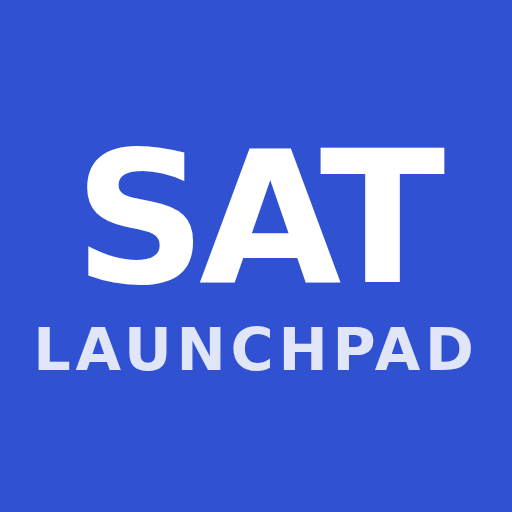
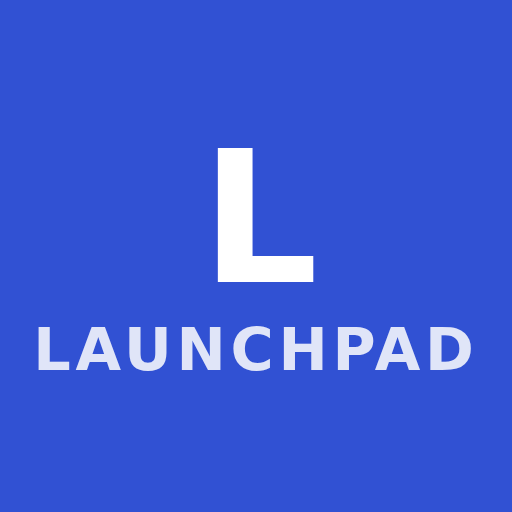
Rename the app to Launchpad
The repository is now "launchpad", so the app's name and links follow:
- Page title, home-screen name, header, manifest, icons and backup file
  names say "Launchpad"; the icon shows an L instead of "SAT".
- README links point to https://protoss1232001.github.io/launchpad/,
  with a note on moving a copy installed from the old address.
- The offline cache has a new name, so the copy at the old address
  keeps its own cache and still opens offline for a backup.

Lessons, the test roadmap and the official-score log still describe the
test they prepare for. Saved progress keeps its storage name, so it
loads unchanged at the new address.

Claude-Session: https://claude.ai/code/session_01Nbf3hJgb3N5FThU2Gpdbbn

Changed region(s): [[0.1562, 0.2812, 0.875, 0.5625]]

diff --git a/index.html b/index.html
@@ -3,14 +3,14 @@
 <head>
 <meta charset="utf-8">
 <meta name="viewport" content="width=device-width, initial-scale=1, viewport-fit=cover">
-<title>SAT Launchpad</title>
-<meta name="description" content="A multi-year study plan and practice app for the digital SAT.">
+<title>Launchpad</title>
+<meta name="description" content="A multi-year study plan and practice app.">
 <meta name="theme-color" content="#3151D3">
 <link rel="manifest" href="manifest.webmanifest">
 <link rel="icon" href="icon-192.png">
 <link rel="apple-touch-icon" href="icon-180.png">
 <meta name="apple-mobile-web-app-capable" content="yes">
-<meta name="apple-mobile-web-app-title" content="SAT Launchpad">
+<meta name="apple-mobile-web-app-title" content="Launchpad">
 <style>
 :root{--paper:#F3F5FA;--card:#FFFFFF;--ink:#18223A;--muted:#5B6479;--line:#D8DEEA;--accent:#3151D3;--accent-ink:#fff;--teal:#0F7F85;--good:#177A4C;--goodbg:#E2F4EA;--warn:#8A5E00;--warnbg:#FFF3D6;--bad:#C93C35;--badbg:#FBE4E2;--figfill:#E6ECF8;--grid:#DCE3EE;--bar1:#3D6BE0;--bar2:#E0901A;--hl:#FFE58A;--shadow:0 1px 2px rgba(24,34,58,.06),0 6px 18px rgba(24,34,58,.06)}
 @media (prefers-color-scheme:dark){:root:not([data-theme="light"]){--paper:#11172A;--card:#1A2236;--ink:#ECF0F7;--muted:#A3ACBF;--line:#2B3550;--accent:#7D95FF;--accent-ink:#0E1633;--teal:#3CC3C8;--good:#4CC98A;--goodbg:#173626;--warn:#E0AE49;--warnbg:#3A2E10;--bad:#FF7A70;--badbg:#3D1E1C;--figfill:#243050;--grid:#2C3753;--bar1:#7D9BFF;--bar2:#F3B24A;--hl:#6B5A12;--shadow:0 1px 2px rgba(0,0,0,.3),0 6px 18px rgba(0,0,0,.25)}}
@@ -194,7 +194,7 @@ body.testing{background:var(--card)}
 </head>
 <body>
 <div id="app"></div>
-<noscript><p style="padding:20px;font-family:sans-serif">SAT Launchpad needs JavaScript turned on. Open it in Chrome, Safari, Edge, or Firefox.</p></noscript>
+<noscript><p style="padding:20px;font-family:sans-serif">Launchpad needs JavaScript turned on. Open it in Chrome, Safari, Edge, or Firefox.</p></noscript>
 <script>
 // ===== CORE HELPERS =====
 const R=(a,b)=>a+Math.floor(Math.random()*(b-a+1));
@@ -1932,7 +1932,7 @@ const GRADES=[8,9,10,11,12];
 const gradeName=g=>`${g}th grade`;
 // If a screen fails to draw, a recovery screen replaces it instead of a blank page.
 function render(){try{draw()}catch(e){stopClock();try{console.error(e)}catch(_){}$('#app').innerHTML=recoveryView();wireRecovery()}}
-function saveNotice(){if(SAVE_OFF==='stale')return `<div class="card note blocking"><b>SAT Launchpad saved newer progress in another tab or window.</b> This copy has stopped saving so it does not overwrite that progress. <div class="actions"><button class="btn primary" id="rl_reload">Reload with the newer progress</button></div></div>`;
+function saveNotice(){if(SAVE_OFF==='stale')return `<div class="card note blocking"><b>Launchpad saved newer progress in another tab or window.</b> This copy has stopped saving so it does not overwrite that progress. <div class="actions"><button class="btn primary" id="rl_reload">Reload with the newer progress</button></div></div>`;
  if(SAVE_OFF==='blocked')return `<div class="card note"><b>Progress cannot be saved.</b> This browser is blocking storage for this site (a private window, or website data turned off). Open the app in a normal window, or allow website data.</div>`;
  if(SAVE_OFF==='rescue')return `<div class="card note"><b>Saved progress could not be read, and there was no room to set it aside.</b> Nothing will be saved until this is sorted out, so the old data is not overwritten. <button class="linkbtn" id="rl_raw">Download the saved data</button> and send it to whoever set up this app.</div>`;
  if(SAVE_FAIL)return `<div class="card note" id="savewarn"><b>Progress is not being saved.</b> The browser refused to store it (storage may be full). Download a backup file from Progress → Settings now.</div>`;return ''}
@@ -1941,12 +1941,12 @@ function recoveryView(){return `<div class="wrap narrow"><div class="card"><h2>S
  <h4>Your data</h4><div class="actions"><button class="btn" id="rv_dl">Download my data</button><label class="btn filebtn">Restore from file<input type="file" id="rv_file" accept=".json,application/json" hidden></label><button class="btn danger" id="rv_erase">Erase all progress</button></div></div></div>`}
 function wireRecovery(){const on=(id,f)=>{const e=$(id);if(e)e.onclick=f};
  on('#rv_home',()=>{S.view='home';S.cur=null;if(S.tst)S.tst.active=false;save();render()});on('#rv_leave',()=>{S.cur=null;save();render()});on('#rv_test',()=>{S.tst=null;save();render()});
- on('#rv_dl',()=>{let raw='';try{raw=localStorage.getItem(KEY)||''}catch(e){}download(`sat-launchpad-data-${today()}.json`,raw||JSON.stringify(S))});
+ on('#rv_dl',()=>{let raw='';try{raw=localStorage.getItem(KEY)||''}catch(e){}download(`launchpad-data-${today()}.json`,raw||JSON.stringify(S))});
  const f=$('#rv_file');if(f)f.onchange=e=>{const x=e.target.files[0];if(!x)return;const r=new FileReader();r.onload=()=>restore(String(r.result));r.readAsText(x)};
  on('#rv_erase',eraseAll)}
 function draw(){applyTheme();const app=$('#app');const ae=document.activeElement;let sel=null;if(ae&&ae!==document.body&&app.contains(ae)){if(ae.id)sel='#'+CSS.escape(ae.id);else for(const k of ['tpick','pick','go','elim','nt','why','revall','view','daily'])if(ae.dataset&&ae.dataset[k]!=null){sel=`[data-${k}="${CSS.escape(ae.dataset[k])}"]`;break}}
  const refocus=()=>{if(!sel)return;const el=app.querySelector(sel);if(el&&!el.disabled&&document.activeElement===document.body)el.focus({preventScroll:true})};const p=$('#calc');const inMath=S.tst&&S.tst.active&&S.tst.phase==='module'&&S.tst.mods[S.tst.mi].sec==='math';if(p&&!p.hidden&&!inMath)toggleCalc(false);
- if(SAVE_OFF==='newer'){app.innerHTML=`<div class="wrap narrow"><div class="card"><h2>Please update the app</h2><p>This device's progress was saved by a newer version of SAT Launchpad. Close the app and open it again while online, and the newer version will load. Nothing has been changed.</p></div></div>`;return}
+ if(SAVE_OFF==='newer'){app.innerHTML=`<div class="wrap narrow"><div class="card"><h2>Please update the app</h2><p>This device's progress was saved by a newer version of Launchpad. Close the app and open it again while online, and the newer version will load. Nothing has been changed.</p></div></div>`;return}
  if(SAVE_OFF==='stale'){app.innerHTML=`<div class="wrap narrow">${saveNotice()}</div>`;const b=$('#rl_reload');if(b)b.onclick=()=>location.reload();return}
  if(!S.setup){app.innerHTML=saveNotice()+viewSetup();wireSetup();wireNotice();return}
  if(S.tst&&S.tst.active){document.body.classList.add('testing');app.innerHTML=renderTest();wireTest();refocus();return}
@@ -1954,14 +1954,14 @@ function draw(){applyTheme();const app=$('#app');const ae=document.activeElement
  if(S.cur){app.innerHTML=renderSession();wireSession();refocus();return}
  const tabs=[['home','Today'],['math','Math'],['rw','Reading &amp; Writing','Reading'],['tests','Tests'],['words','Words'],['progress','Progress']];const v=S.view==='plan'?'home':S.view==='result'?'tests':S.view;
  const views={home:viewHome,plan:viewPlan,math:()=>viewSection('math'),rw:()=>viewSection('rw'),tests:viewTests,words:viewWords,progress:viewProgress,result:viewResult};
- app.innerHTML=`<header class="top"><div class="brand"><span class="logo">S</span><div><div class="brandname">SAT Launchpad</div><div class="brandsub">${esc(S.name||'')}${S.name?' · ':''}${gradeName(S.grade)} · target ${S.target}</div></div></div>
+ app.innerHTML=`<header class="top"><div class="brand"><span class="logo">L</span><div><div class="brandname">Launchpad</div><div class="brandsub">${esc(S.name||'')}${S.name?' · ':''}${gradeName(S.grade)} · target ${S.target}</div></div></div>
  <nav class="tabs" aria-label="Sections">${tabs.map(([k,l,sh])=>`<button class="tab ${v===k?'on':''}" data-view="${k}" ${v===k?'aria-current="page"':''}>${sh?`<span class="lgl">${l}</span><span class="sml">${sh}</span>`:l}</button>`).join('')}</nav></header><main>${saveNotice()?`<div class="wrap">${saveNotice()}</div>`:''}${(views[S.view]||viewHome)()}</main>`;
  wireCommon();wireNotice();if(S.view==='result')wireResult();if(S.view==='progress')wireProgress();if(S.view==='words')wireWords();refocus()}
 function applyTheme(){const r=document.documentElement;if(S.theme==='auto')r.removeAttribute('data-theme');else r.setAttribute('data-theme',S.theme)}
 
-function wireNotice(){const b=$('#rl_raw');if(b)b.onclick=()=>{try{download('sat-launchpad-unreadable-save.json',localStorage.getItem(KEY)||'')}catch(e){}}}
+function wireNotice(){const b=$('#rl_raw');if(b)b.onclick=()=>{try{download('launchpad-unreadable-save.json',localStorage.getItem(KEY)||'')}catch(e){}}}
 // ---- setup ----
-function viewSetup(){return `<div class="wrap narrow"><div class="card setup"><div class="brand"><span class="logo">S</span><div><div class="brandname">SAT Launchpad</div><div class="brandsub">A multi-year plan for the digital SAT</div></div></div>
+function viewSetup(){return `<div class="wrap narrow"><div class="card setup"><div class="brand"><span class="logo">L</span><div><div class="brandname">Launchpad</div><div class="brandsub">A multi-year plan for the digital SAT</div></div></div>
  <h2 style="margin-top:14px">Let's set up</h2><p class="muted">Everything stays on this device. Nothing is sent anywhere.</p>
  <label>First name<input id="su_name" maxlength="30" value="${esc(S.name)}"></label>
  <label>Grade<select id="su_grade">${GRADES.map(g=>`<option value="${g}" ${S.grade===g?'selected':''}>${gradeName(g)}</option>`).join('')}</select></label>
@@ -2122,7 +2122,7 @@ function settingsCard(){const rescues=rescueKeys();let undo=false;try{undo=!!loc
  <h4>Start over</h4><p class="small muted">Erases all progress on this device.</p><button class="btn danger" id="st_reset">Erase all progress</button></div>`}
 function download(name,text){const a=document.createElement('a');a.href=URL.createObjectURL(new Blob([text],{type:'application/json'}));a.download=name;document.body.appendChild(a);a.click();setTimeout(()=>{URL.revokeObjectURL(a.href);a.remove()},1500)}
 function restore(text){let o;try{o=JSON.parse(text)}catch(e){alert('That file is not a readable backup.');return}
- if(!plainObj(o)||o.v!==1||o.app!=='sat'){alert(o&&o.topics?'That looks like an ISEE Launchpad backup, not an SAT Launchpad backup.':'That is not an SAT Launchpad backup file.');return}
+ if(!plainObj(o)||o.v!==1||o.app!=='sat'){alert(o&&o.topics?'That looks like an ISEE Launchpad backup, not a Launchpad backup.':'That is not a Launchpad backup file.');return}
  const days=plainObj(o.days)?Object.keys(o.days).filter(isDate).sort():[];const nt=Array.isArray(o.tests)?o.tests.length:0,nw=plainObj(o.vocab)?Object.keys(o.vocab).length:0;
  const who=typeof o.name==='string'&&o.name?` for ${o.name.slice(0,30)}`:'';
  if(!confirm(`Replace the progress on this device with the backup${who}?\n\nThe backup has ${days.length} study days${days.length?` (last on ${days[days.length-1]})`:''}, ${nt} practice tests, and ${nw} words started.\n\nThe current progress is kept, so the restore can be undone from Settings.`))return;
@@ -2146,16 +2146,16 @@ function wireProgress(){const g=id=>$(id).value.trim();
   // A move to the next math course means earlier courses' skills have been taught.
   if(nc>S.course)for(const id in S.later)if(SK[id]&&SK[id].course<nc)delete S.later[id];S.course=nc;S.target=Math.round(t/10)*10;S.testDate=g('#st_date');S.theme=g('#st_theme');
   const key=g('#st_calc');if(key!==S.calcKey){S.calcKey=key;calc=null;const p=$('#calc');if(p)p.remove()}S.openAll=$('#st_open').checked;const ok=save();render();if(ok)toast('Settings saved.')};
- $('#bk_dl').onclick=()=>{S.lastBackup=today();save();download(`sat-launchpad-backup-${today()}.json`,JSON.stringify(S));render()};
+ $('#bk_dl').onclick=()=>{S.lastBackup=today();save();download(`launchpad-backup-${today()}.json`,JSON.stringify(S));render()};
  $('#bk_file').onchange=e=>{const f=e.target.files[0];if(!f)return;const r=new FileReader();r.onload=()=>restore(String(r.result));r.readAsText(f)};
  $('#st_reset').onclick=eraseAll;if($('#bk_undo'))$('#bk_undo').onclick=undoRestore;
- $$('[data-rescue]').forEach(b=>b.onclick=()=>{try{download('sat-launchpad-unreadable-save.json',localStorage.getItem(b.dataset.rescue)||'')}catch(e){}})}
+ $$('[data-rescue]').forEach(b=>b.onclick=()=>{try{download('launchpad-unreadable-save.json',localStorage.getItem(b.dataset.rescue)||'')}catch(e){}})}
 
 // ---- shared wiring ----
 function wireCommon(){$$('[data-view]').forEach(b=>b.onclick=()=>{S.view=b.dataset.view;save();render();scrollTo(0,0)});
  const on=(id,f)=>{const e=$(id);if(e)e.onclick=f};
  on('#yr_ok',()=>{S.gradeSet=today();save();render()});on('#td_clear',()=>{S.testDate='';save();render()});
- on('#hwords',startWordsToday);on('#hbackup',()=>{S.lastBackup=today();save();download(`sat-launchpad-backup-${today()}.json`,JSON.stringify(S));render()});
+ on('#hwords',startWordsToday);on('#hbackup',()=>{S.lastBackup=today();save();download(`launchpad-backup-${today()}.json`,JSON.stringify(S));render()});
  $$('[data-daily]').forEach(b=>b.onclick=()=>startDaily(b.dataset.daily));$$('[data-focus]').forEach(b=>b.onclick=()=>startFocus(b.dataset.focus));
  $$('[data-resume]').forEach(b=>b.onclick=()=>{resumeSkill(b.dataset.resume);save();render();toast(`${SK[b.dataset.resume].t} is back in practice.`)});
  $$('[data-repause]').forEach(b=>b.onclick=()=>{const x=S.later[b.dataset.repause];pauseSkill(b.dataset.repause,x?x.d:1);save();render()});

diff --git a/sw.js b/sw.js
@@ -1,8 +1,10 @@
-// Offline cache for SAT Launchpad. The page comes from the network when there is
+// Offline cache for Launchpad. The page comes from the network when there is
 // one, so a new version shows up the next time the app is opened; if the network
 // is missing or slow, the cached copy is used. Only this app's own files are
 // cached, and only this app's caches are ever deleted (other apps may share the site).
-const PREFIX = 'sat-launchpad-';
+// Renamed when the app moved to /launchpad/; the copy at the
+// old address keeps its own cache, so it still opens offline.
+const PREFIX = 'launchpad-';
 const CACHE = PREFIX + 'v1';
 const FILES = ['./', './index.html', './manifest.webmanifest', './icon-180.png', './icon-192.png', './icon-512.png'];
 self.addEventListener('install', e => { e.waitUntil(caches.open(CACHE).then(c => c.addAll(FILES)).then(() => self.skipWaiting())); });

diff --git a/README.md b/README.md
@@ -1,8 +1,8 @@
-# SAT Launchpad
+# Launchpad
 
 A multi-year, fully offline study app for the **digital SAT**, from 8th grade through the SAT in 11th grade. It is one self-contained web page: no account, no server, no tracking.
 
-**Live app:** https://protoss1232001.github.io/SAT-launched-/
+**Live app:** https://protoss1232001.github.io/launchpad/
 
 ## The plan: three phases
 | Phase | When | Focus |
@@ -53,12 +53,14 @@ Every skill on the College Board's digital SAT specification.
 - **Skill map, score trend and official scores.** Accuracy per skill, estimates from practice tests over time, and a log for PSAT 8/9, PSAT 10, PSAT/NMSQT (with the National Merit Selection Index), SAT and Bluebook scores.
 
 ## Install it on an iPad or phone
-1. Open **https://protoss1232001.github.io/SAT-launched-/** in Safari.
+1. Open **https://protoss1232001.github.io/launchpad/** in Safari.
 2. Tap **Share → Add to Home Screen**. (On Android, use Chrome's menu → *Add to Home screen*.)
 
 It then works offline, and home-screen apps are exempt from Safari's storage cleanup, so progress is kept. When online, the app loads the newest version each time it opens; progress is stored separately and updates never erase it.
 
 ## Progress and backups
+**Moved from the old address.** The app used to live at a different address on the same site. In a browser, progress carries over automatically. A copy installed on an iPad or phone from the old address keeps its own storage and no longer updates: open it once, use *Download backup file*, then install from the new address and *Restore from file*.
+
 Progress lives only in the browser on that device. **Progress → Settings → Download backup file** saves everything to a file; *Restore from file* loads it on the same or another device. The Today tab reminds about a backup every two weeks. If a save ever cannot be read, it is kept aside rather than erased, and Settings offers it for download.
 
 ## Repository layout
